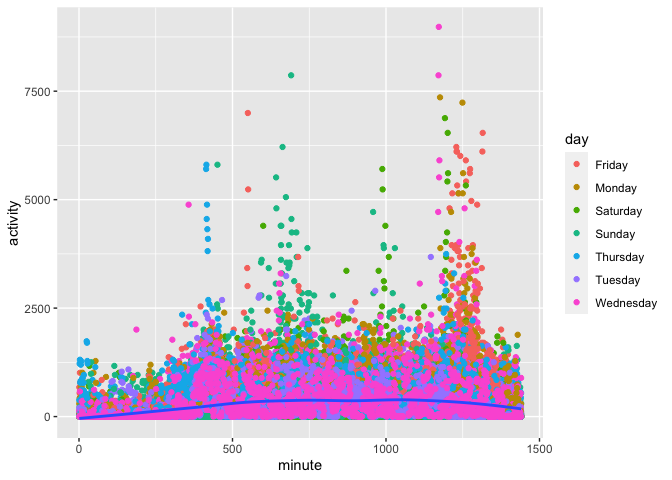
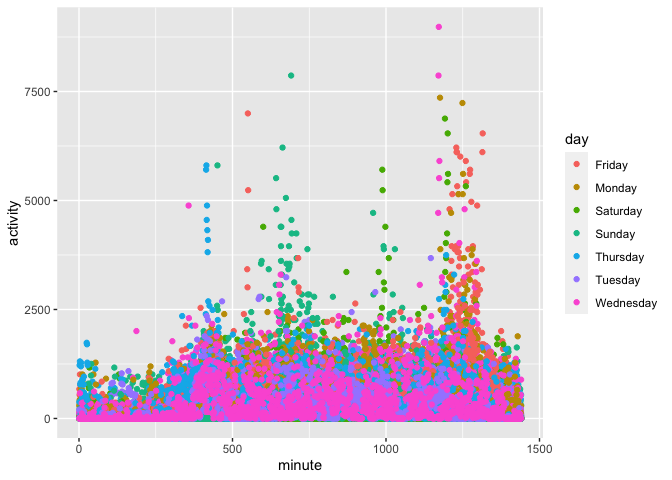
Work for problem two and three

diff --git a/p8015_hw3_zi2125.md b/p8015_hw3_zi2125.md
@@ -274,8 +274,7 @@ for each day.
 ``` r
 accel_df %>% 
   ggplot(aes(x = minute, y = activity)) +
-  geom_point(aes(color = day)) +
-  stat_smooth(method = "loess", formula = y ~ x, size = 1, se = FALSE)
+  geom_point(aes(color = day)) 
 ```
 
 ![](p8015_hw3_zi2125_files/figure-gfm/unnamed-chunk-8-1.png)<!-- -->
@@ -288,4 +287,81 @@ Load the dataset:
 data("ny_noaa")
 ```
 
-This dataset contains 2595176 rows and 7 columns.
+This dataset contains 2595176 rows and 7 columns and includes variables
+id, date, prcp, snow, snwd, tmax, tmin. This data contains information
+on weather in NY and includes snowfall and snow depth in mm,
+precipitation in tenths of a mm, as well as the max and min temperature
+in tenths of degrees C. There is a lot of missing data since each
+weather station can only collect information on a subset of these
+variables on any given day.
+
+Tidy the data:
+
+``` r
+noaa_df <- ny_noaa %>%
+  separate(date, sep = "-", into = c("year", "month", "day"), convert = TRUE) %>%
+  mutate( 
+    prcp = prcp/10,
+    tmax = as.numeric(tmax),
+    tmin = as.numeric(tmin), 
+    tmax = tmax/10,
+    tmin = tmin/10)
+
+ny_noaa %>%
+  count(snow) %>%
+  arrange(desc(n))
+```
+
+    ## # A tibble: 282 x 2
+    ##     snow       n
+    ##    <int>   <int>
+    ##  1     0 2008508
+    ##  2    NA  381221
+    ##  3    25   31022
+    ##  4    13   23095
+    ##  5    51   18274
+    ##  6    76   10173
+    ##  7     8    9962
+    ##  8     5    9748
+    ##  9    38    9197
+    ## 10     3    8790
+    ## # … with 272 more rows
+
+For snowfall, the most commonly observed values are 0 mm and NA. This
+makes sense since most of the days in the year it is not snowing, and
+even in the winter, there isn’t always snowfall.
+
+Next I am creating a two-panel plot showing the average max temperature
+in January and in July in each station across years:
+
+``` r
+month.labs <- c("January", "July")
+names(month.labs) <- as.numeric(c("1", "7"))
+
+noaa_df %>% 
+  group_by(id, month) %>% 
+  filter(month == 1 | month == 7, na.rm = TRUE) %>% 
+  summarize(
+    mean_tmax = mean(tmax)
+  )  %>% 
+  ggplot(aes(x = id, y = mean_tmax)) + 
+    geom_point(alpha = .5) +
+    facet_grid(. ~ month,
+               labeller = labeller(month = month.labs)) +
+  labs(
+    title = "Average Max Temperature in January and in July in NY",
+    x = "Weather Station ID",
+    y = "Mean Maximum Temperature (C)"
+  )
+```
+
+    ## `summarise()` regrouping output by 'id' (override with `.groups` argument)
+
+    ## Warning: Removed 1186 rows containing missing values (geom_point).
+
+![](p8015_hw3_zi2125_files/figure-gfm/unnamed-chunk-11-1.png)<!-- -->
+
+These plots show that average max temps in January are much lower than
+average max temps in July as is expected. It is also interesting to note
+that there are some weather stations that don’t have temperature data.
+There are no observable outliers in this graph.
